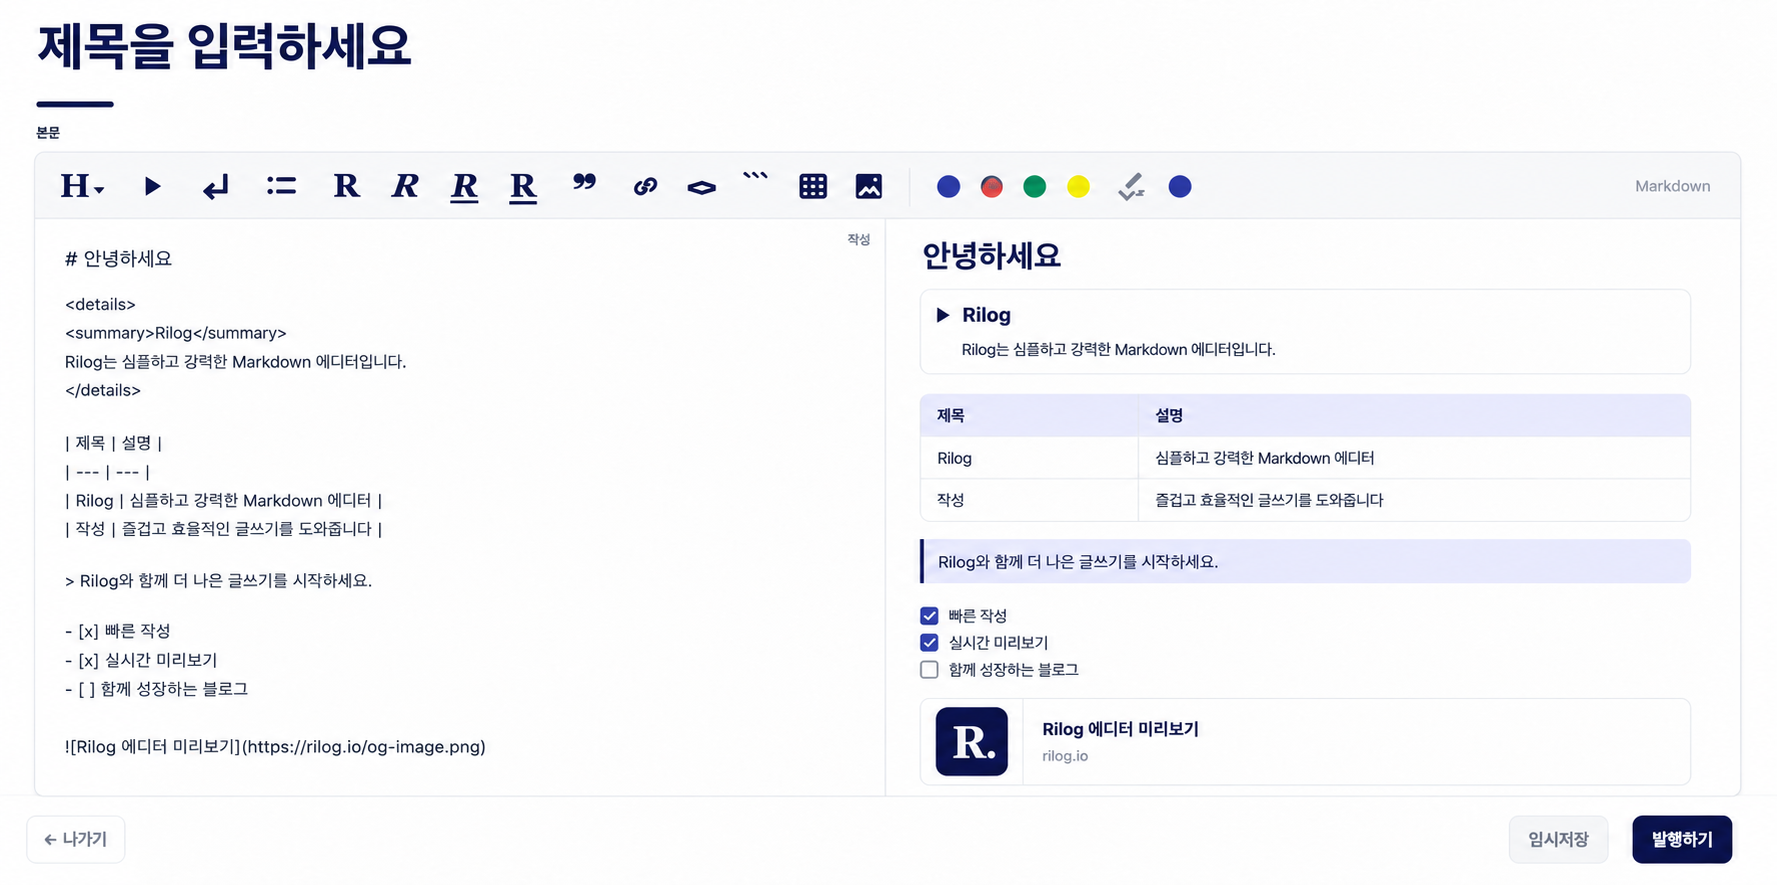
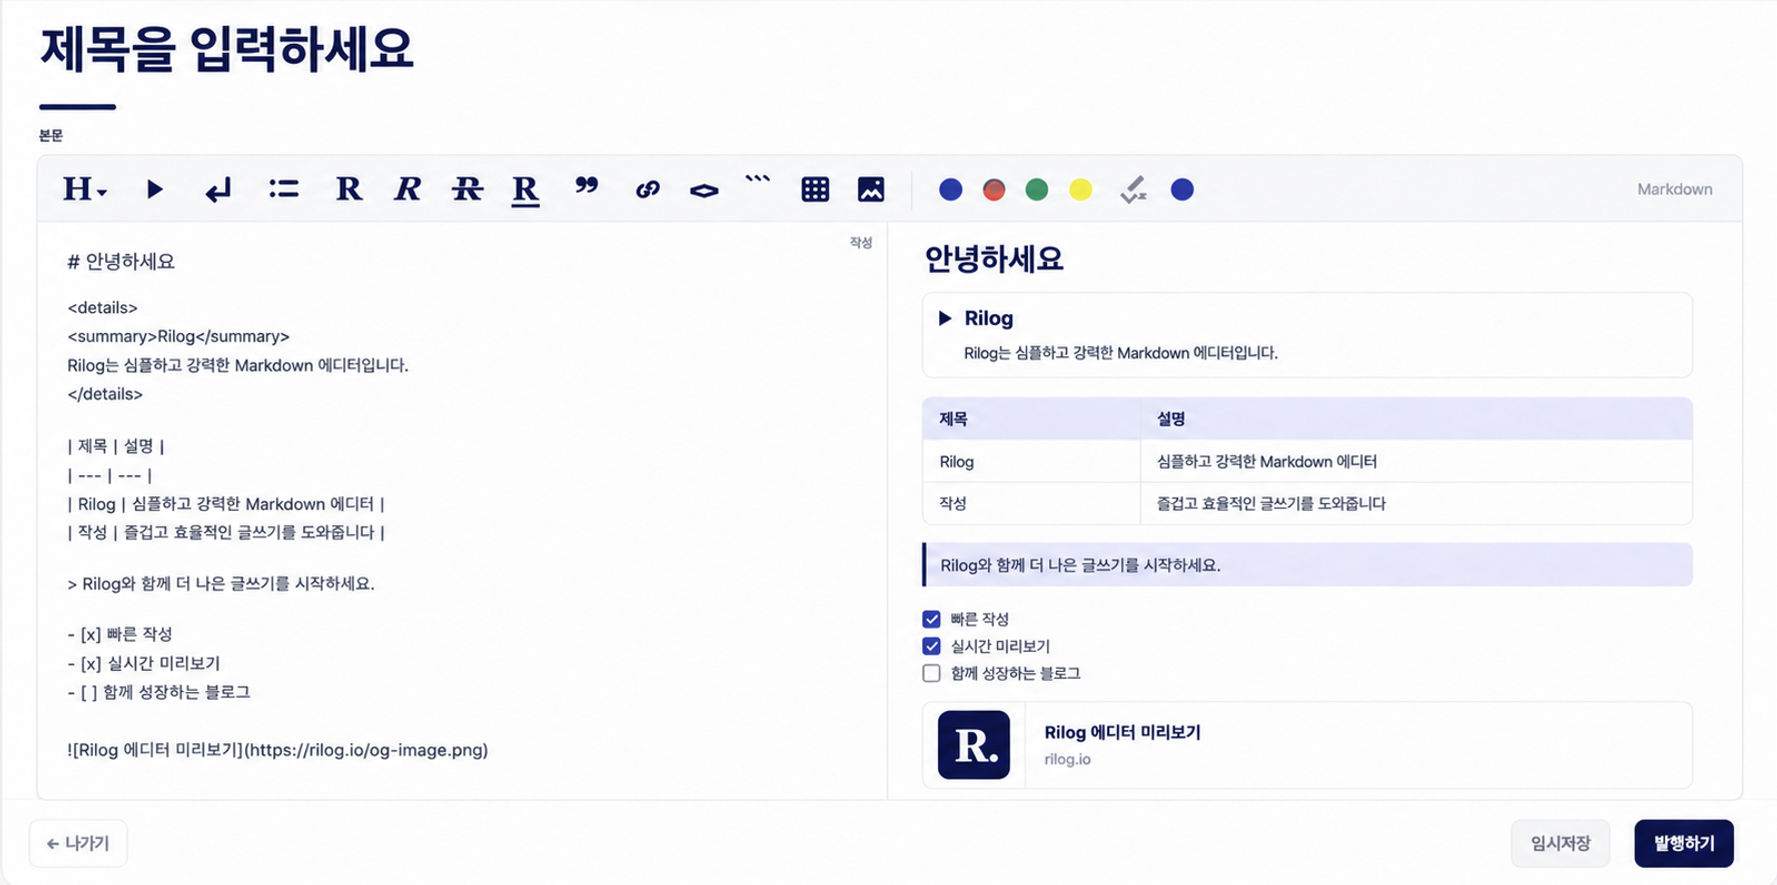
Fix markdown toolbar image and category copy

diff --git a/index.html b/index.html
@@ -99,7 +99,7 @@
     <section class="landing-section landing-feed" id="landing-feed">
         <div class="landing-section-copy">
             <span class="landing-eyebrow">03 CATEGORY</span>
-            <h2>관심사만 기반 맞춤 피드</h2>
+            <h2>관심사 기반 맞춤 피드</h2>
             <p>모든 글은 카테고리로 정리되고, 사용자는 관심 있는 분야를 선택해 그 주제의 글들만 보이도록 설정할 수 있습니다.</p>
         </div>
         <div class="landing-wide-screen">

diff --git a/landing.html b/landing.html
@@ -99,7 +99,7 @@
     <section class="landing-section landing-feed" id="landing-feed">
         <div class="landing-section-copy">
             <span class="landing-eyebrow">03 CATEGORY</span>
-            <h2>관심사만 기반 맞춤 피드</h2>
+            <h2>관심사 기반 맞춤 피드</h2>
             <p>모든 글은 카테고리로 정리되고, 사용자는 관심 있는 분야를 선택해 그 주제의 글들만 보이도록 설정할 수 있습니다.</p>
         </div>
         <div class="landing-wide-screen">
